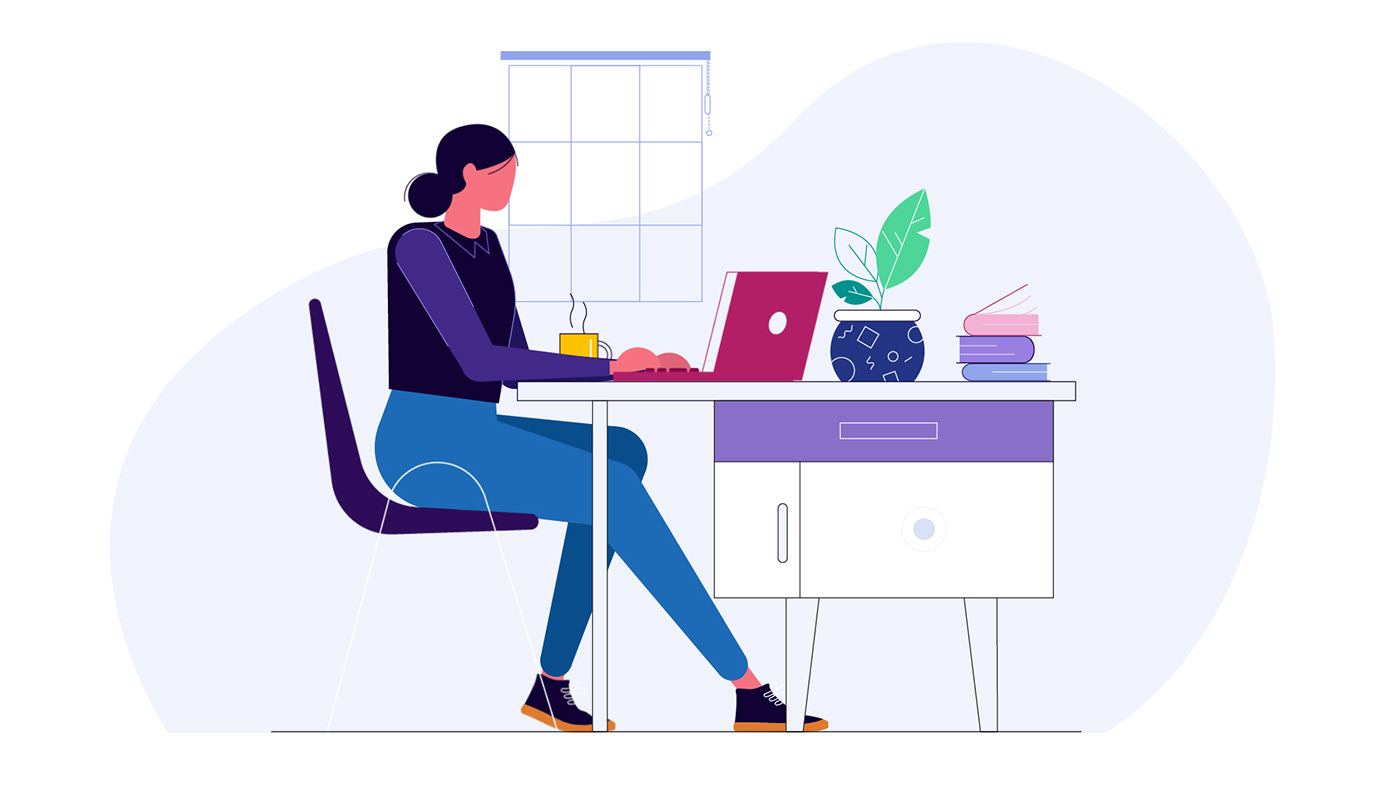
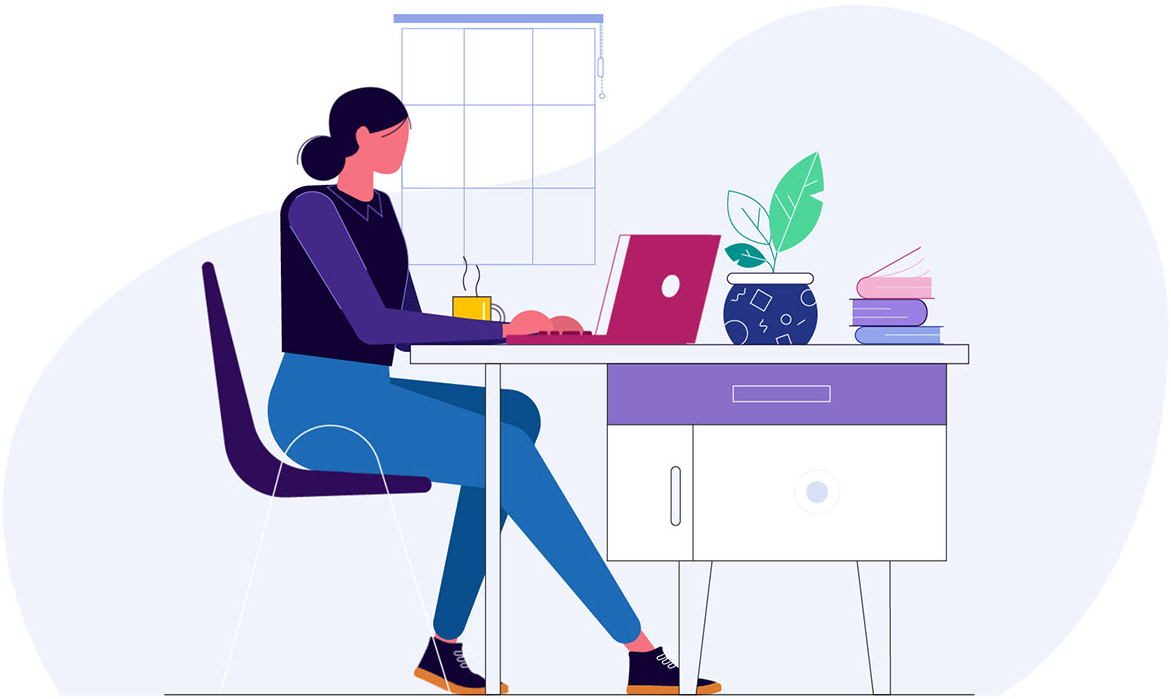
crop image, fix link and padding

diff --git a/frontend/src/Login/Login.jsx b/frontend/src/Login/Login.jsx
@@ -135,23 +135,20 @@ function Login() {
 				margin="normal"
 			/>
 			<Typography
-				variant="body2"
 				align="center"
 				sx={{
-					cursor: "pointer",
-					marginTop: "10px",
-					":hover": { color: "#00705b" },
+					marginTop: 1,
 				}}
 				onClick={() => setAuthState("signUp")}
 			>
-				Do not have an account? Sign Up
+				<Link>Don't have an account? Sign Up</Link>
 			</Typography>
 			<Button
 				type="submit"
 				variant="contained"
 				color="primary"
 				onClick={handleSubmit}
-				sx={{ marginTop: "20px", width: "100%" }}
+				sx={{ marginTop: 3, width: "100%" }}
 			>
 				Sign In
 			</Button>
@@ -219,7 +216,7 @@ function Login() {
 					/>
 				}
 				label={
-					<Typography>
+					<Typography sx={{ fontSize: "0.875rem" }}>
 						I have read and accept the{" "}
 						<Link href="/terms-of-service" target="_blank" rel="noopener">
 							Terms of Service
@@ -233,23 +230,20 @@ function Login() {
 				}
 			/>
 			<Typography
-				variant="body2"
 				align="center"
 				sx={{
-					cursor: "pointer",
-					marginTop: "10px",
-					":hover": { color: "#00705b" },
+					marginTop: 1,
 				}}
 				onClick={() => setAuthState("signIn")}
 			>
-				Already have an account? Login
+				<Link>Already have an account? Login</Link>
 			</Typography>
 			<Button
 				type="submit"
 				variant="contained"
 				color="primary"
 				onClick={handleSubmit}
-				sx={{ marginTop: "20px", width: "100%" }}
+				sx={{ marginTop: 3, width: "100%" }}
 			>
 				Sign Up
 			</Button>
@@ -271,7 +265,7 @@ function Login() {
 	return (
 		<Box sx={{ display: "flex", alignItems: "center", gap: 1 }}>
 			<Box component="img" src={loginImage} sx={{ width: "75%" }} />
-			<Box sx={{ width: "25%", mr: 4 }}>
+			<Box sx={{ width: "25%", mx: 4 }}>
 				{!authState
 					? GetStarted
 					: authState === "signIn"
